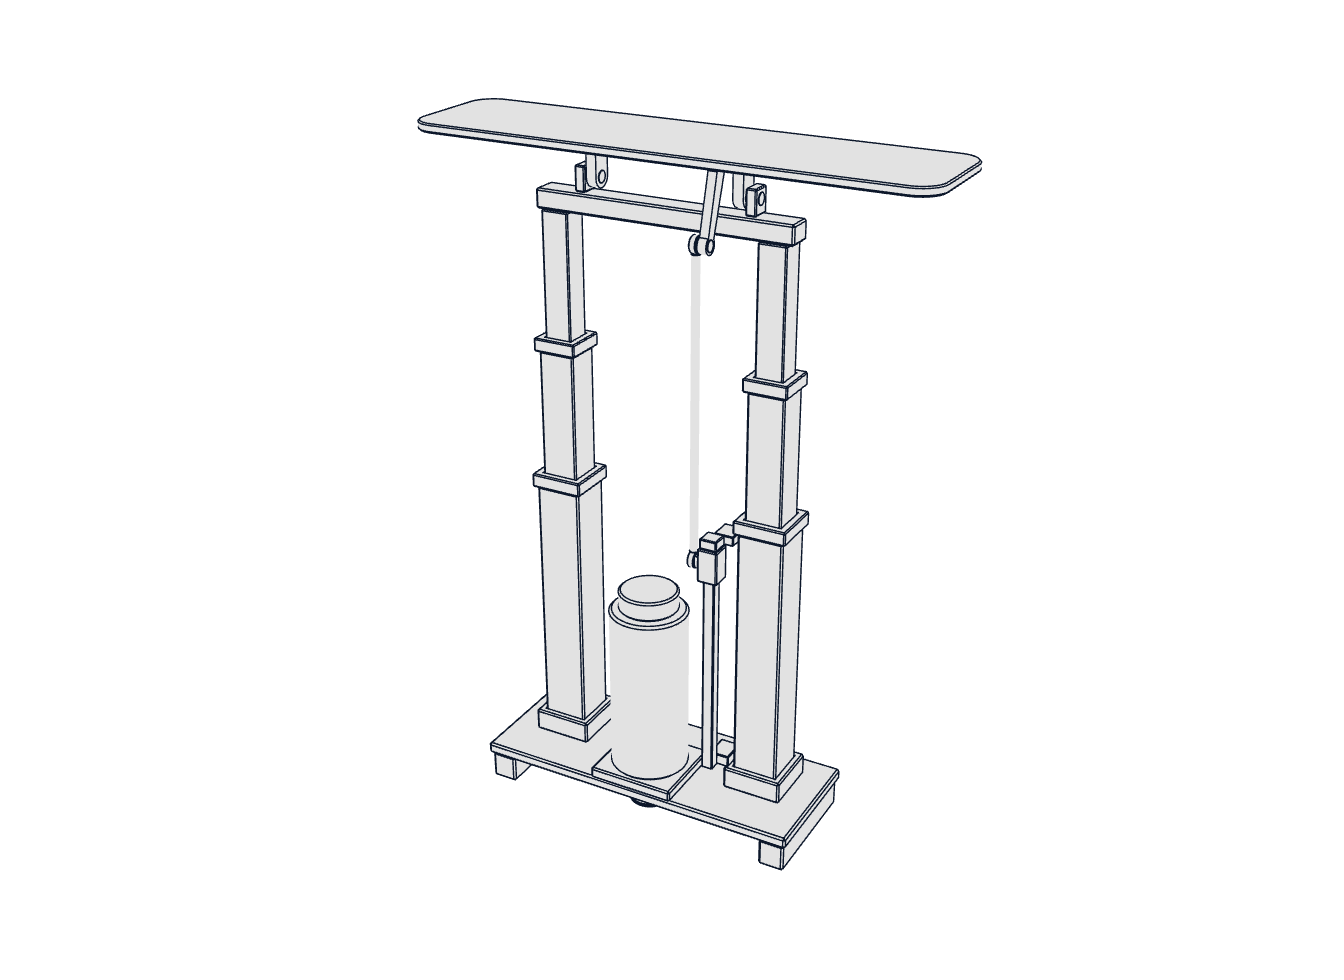
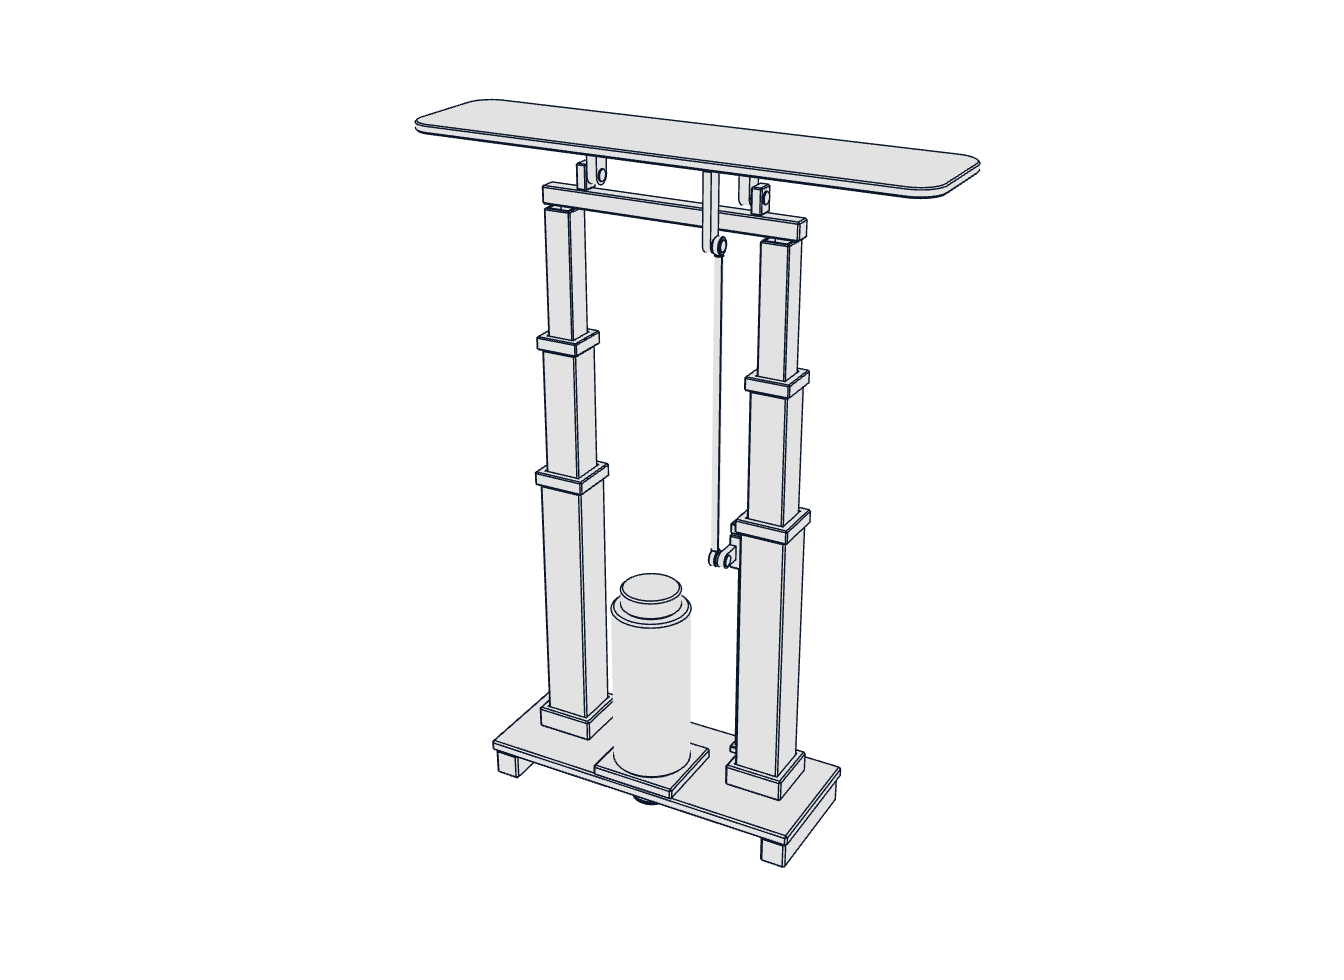
fix(3d): mount Tesla guide rail on column wall with 90-deg flush crank lug

Changed region(s): [[0.3125, 0.0918, 0.7188, 0.8878]]

diff --git a/src/canvas/models/TeslaActuatorModel.tsx b/src/canvas/models/TeslaActuatorModel.tsx
@@ -31,12 +31,12 @@ const STROKE_1 = 0.086;
 const STROKE_2 = 0.170;
 const HINGE_Y_DEP = 0.420;
 const HINGE_Z = -0.002;
-const PIN_DY = -0.024;
-const PIN_DZ = 0.030;
-const RAIL_Z = 0.028;
-const ROD_X = 0.035;
-const CARRIAGE_Y_STOP = 0.185;
-const L_ROD = 0.211;
+const PIN_DY = -0.026;
+const PIN_DZ = 0.023;
+const RAIL_Z = 0.021;
+const ROD_X = 0.0455;
+const CARRIAGE_Y_STOP = 0.184;
+const L_ROD = 0.210;
 const MAX_FLIP_RAD = Math.PI / 2;
 
 const CRANK_R = Math.hypot(PIN_DY, PIN_DZ);
@@ -104,8 +104,7 @@ const PART_NAME_COLORS: Record<string, string> = {
   plate_yoke_ear_l: '#334155',
   plate_yoke_ear_r: '#334155',
   plate_yoke_crank: '#334155',
-  guide_rail_tab_bot: '#334155',
-  guide_rail_tab_top: '#334155',
+  guide_rail_cap_bot: '#334155',
   motor_body: '#1e293b',
   guide_rail_stop: '#1e293b',
   link_rod_head_bot: '#1e293b',

diff --git a/src/canvas/ModelPreloadManager.ts b/src/canvas/ModelPreloadManager.ts
@@ -2,7 +2,7 @@ import React from 'react';
 
 let dracoConfigured = false;
 
-export const POSTER_VERSION = '20261121-v6';
+export const POSTER_VERSION = '20261121-v7';
 
 let isWindowScrolling = false;
 let scrollStopTimer: ReturnType<typeof setTimeout> | null = null;
